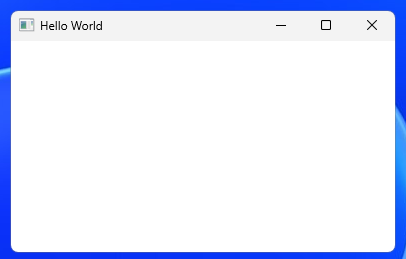
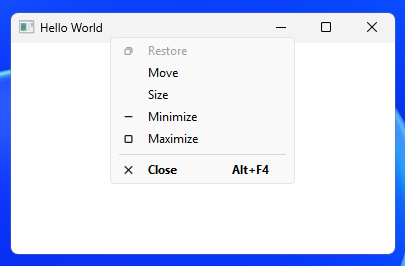
window

diff --git a/window.md b/window.md
@@ -20,7 +20,17 @@ There are 3 general categories of windows in terms of [ownership](#ownership): t
 
 Event handling is done via a [message loop](#message-loop) and the [window procedure](#window-procedure) callback.
 
-![Window parts](./window.png "Window parts")
+The main parts of a window are: 
+- titlebar with icon, caption, window buttons and system menu
+- frame or border that can be used for resizing
+- client area for rendering the window's content
+
+Titlebar and frame are called non-client area.
+
+<figure>
+  <img src="./window_parts.png" alt="Anatomy of a window">
+  <figcaption>Anatomy of a window</figcaption>
+</figure>
 
 ## RegisterClass
 
@@ -46,9 +56,9 @@ To do that, we call a `RegisterClass` function and pass it a pointer to a `WNDCL
 
 `WNDCLASS` members:
 
-- [style](#styles) - bitmask for setting additional window behavior(s).
-- [lpfnWndProc](#window-procedure) - pointer to the window event handler callback.
-- hInstance - handle to the executable module, usually the hInstance argument you get in WinMain (wWinMain)
+- [style](#class-styles) - bitmask for setting additional window behavior(s). **Required**.
+- [lpfnWndProc](#window-procedure) - pointer to the window event handler callback. **Required**.
+- hInstance - handle to the executable module, usually the hInstance argument you get in WinMain (wWinMain). **Required**.
 - [hIcon](#icons) - handle to an icon resource used as the window icon.
 - [hCursor](#cursors) - handle to a cursor resource use as the window cursor icon.
 - hbrBackground - handle to a brush used to paint the window client area background using GDI.
@@ -59,7 +69,7 @@ To do that, we call a `RegisterClass` function and pass it a pointer to a `WNDCL
 
 `WNDCLASSEX` only members:
 
-- cbSize - the size of the structure in bytes. Usually `sizeof(WNDCLASSEX)`.
+- cbSize - the size of the structure in bytes. Usually `sizeof(WNDCLASSEX)`. **Required**.
 - [hIconSm](#icons) - a handle to an icon resource used as the small window icon.
 
 Example:
@@ -90,19 +100,41 @@ int WINAPI wWinMain(HINSTANCE hInstance, HINSTANCE hPrevInstance, PWSTR pCmdLine
 
 // TODO
 
-## Standard controls
-
-// TODO
-
-## Common controls
-
-// TODO
-
 ## Ownership
 
 // TODO
 
-## Styles
+## Class styles
+
+`CS_DBLCLKS` - Enables the windows to receive double click messages (e.g `WM_LBUTTONDBLCLK`).
+
+`CS_NOCLOSE` - Disables the close button on the window.
+
+`CS_DROPSHADOW` - Adds a drop-shadow effect on top-level windows (e.g. menus). Cannot be used with child windows.
+
+`CS_HREDRAW` - Invalidates client area when width changes. Used with GDI.
+
+`CS_VREDRAW` - Invalidates client area when height changes. Used with GDI.
+
+`CS_CLASSDC` - All class windows share the same DC. Mainly used with GDI.
+
+`CS_OWNDC` - Each class window gets its own DC. Mainly used with GDI and OpenGL.
+
+`CS_PARENTDC` - Child windows use the parent's DC as an optimization. Mainly used with GDI.
+
+`CS_GLOBALCLASS` - Makes the class globally available to all other modules in the process. Rarely used today.
+
+`CS_SAVEBITS` - Saves a bitmap of the part of screen obscured by this window so when this window is removed,
+the pixels that were underneath are restored from the bitmap instead doing a full repaint.
+Legacy feature, made obsolete by DWM.
+
+`CS_BYTEALIGNWINDOW` - Forces the window rectangle to start on a byte boundary in memory. Legacy feature.
+
+`CS_BYTEALIGNCLIENT` - Forces the client area rectangle to start on a byte boundary in memory. Legacy feature.
+
+## Window styles
+
+### Visual styles
 
 There are three base window styles that you can use as a starting point:
 
@@ -110,72 +142,40 @@ There are three base window styles that you can use as a starting point:
 - `WS_POPUP` - special top level windows like dialogs, menus, splash screens...etc.
 - `WS_CHILD` - child windows that are visually constrained / clipped in a parent window.
 
-### WS_OVERLAPPED
+`WS_OVERLAPPED` produces a basic window with a frame and a minimal titlebar. No resizable border or window buttons.
 
-`WS_OVERLAPPED` flag gives you the small titlebar with the caption and
-the client area painted white by default. There are no resizable borders.
-
-![Window with WS_OVERLAPPEDWINDOW](./ws_overlapped.png)
-
-`WS_OVERLAPPED | WS_THICKFRAME` gives overlapped style + a resizable border and a taller titlebar.
-
-![Window with WS_OVERLAPPED and WS_THICKFRAME](./ws_overlapped_thickframe.png)
-
-`WS_OVERLAPPED | WS_SYSMENU` gives overlapped style + icon and the close button. No resizable border.
-Right clicking on the titlebar opens the system menu. Minimize and maximize are available as options in the system menu, but are disabled and there are now titlebar buttons for them. You can add them with `WS_MINIMIZEBOX` and `WS_MAXIMIZEBOX` flags.
-
-![Window with WS_OVERLAPPED and WS_SYSMENU](./ws_overlapped_sysmenu.png)
-
-`WS_MINIMIZEBOX` and `WS_MAXIMIZEBOX` require the `WS_SYSMENU` flag.
-
-`WS_OVERLAPPED | WS_SYSMENU | WS_MINIMIZEBOX` gives overlapped style + system menu with the minimize option now available
-and the minimize button. Maximize button is shown, but disabled.
-
-![Window with WS_OVERLAPPED, WS_SYSMENU, and WS_MINIMIZEBOX](./ws_overlapped_sysmenu_minimizebox.png)
-
-`WS_OVERLAPPEDWINDOW` is a flag that encompasses everything from before (titlebar, resizable borders, system menu...etc).
-
-It is defined as `WS_OVERLAPPED | WS_CAPTION | WS_SYSMENU | WS_THICKFRAME | WS_MINIMIZEBOX | WS_MAXIMIZEBOX`
-
-![Window with WS_OVERLAPPEDWINDOW](./ws_overlappedwindow.png)
-
-`WS_HSCROLL` and `WS_VSCROLL` can be used to add scrollbars.
-
-`WS_OVERLAPPED | WS_HSCROLL | WS_VSCROLL`
-
-![Window with WS_OVERLAPPED and WS_HSCROLL and WS_VSCROLL](./ws_overlapped_hscroll_vscroll.png)
-
-### WS_POPUP
-
-`WS_POPUP` gives the frameless style - no title bar, no border whatsoever (no rounding).
-
-Could be used if you want control over the entire surface of the window.
-
-The client area will not be painted by default, but the easiest way to do it is to set `hbrBackground` on `WNDCLASS`:
+`WS_POPUP` produces a frameless window with just the client area and no borders at all (no rounding).
+Client area needs to be painted for the window to be visible. Easiest way to do it:
 
 ```cpp
 wc.hbrBackground = (HBRUSH)(COLOR_WINDOW + 1); // default, white background
 ```
 
-You could also handle the `WM_ERASEBKGND` or `WM_PAINT` message to paint the background yourself and/or have your own render loop.
+`WS_THICKFRAME` adds a resizable border and makes the titlebar taller. Its alias is `WS_SIZEBOX`.
 
-![Window with WS_POPUP](./ws_popup.png)
+`WS_SYSMENU` adds the window icon, system menu and window buttons. `WS_MINMIZEBOX` and `WS_MAXIMIZEBOX` are used
+alongside it to add the minimize and maximize buttons.
 
-You can add other styles to `WS_POPUP` like the styles we used with `WS_OVERLAPPED`.
+`WS_OVERLAPPEDWINDOW` is the full, standard overlapped window.
+Defined as `WS_OVERLAPPED | WS_CAPTION | WS_SYSMENU | WS_THICKFRAME | WS_MINIMIZEBOX | WS_MAXIMIZEBOX`.
 
-`WS_POPUP | WS_THICKFRAME` gives a frameless window with rounded corners and a resizable border.
+`WS_HSCROLL` and `WS_VSCROLL` are used to add horizontal and vertical scrollbars.
 
-![Window with WS_POPUP and WS_THICKFRAME](./ws_popup_thickframe.png)
+`WS_BORDER` The window has a thin line border.
 
-`WS_POPUP | WS_CAPTION | WS_THICKFRAME | WS_SYSMENU | WS_MINIMIZEBOX | WS_MAXIMIZEBOX` gives visually the same window as with `WS_OVERLAPPEDWINDOW`.
+`WS_DLGFRAME` The window has a dialog-box like border. A window with this style cannot have a title bar.
 
-![Window with WS_POPUP and WS_CAPTION and WS_THICKFRAME and WS_SYSMENU and WS_MINIMZEBOX and WS_MAXIMIZEBOX](./ws_popup_caption_thickframe_sysmenu_min_max.png)
+<div style="display:flex;">
+<figure>
+  <img src="./ws_overlappedwindow.png" alt="Window with WS_OVERLAPPEDWINDOW style">
+  <figcaption>WS_OVERLAPPEDWINDOW with the system menu open</figcaption>
+</figure>
 
-Scrollbar flags work with `WS_POPUP` as well.
-
-`WS_POPUP | WS_VSCROLL`:
-
-![Window with WS_VSCROLL](./ws_popup_vscroll.png)
+<figure>
+  <img src="./ws_popup.png" alt="Window with WS_POPUP style">
+  <figcaption>WS_POPUP only window</figcaption>
+</figure>
+</div>
 
 ### Behavior styles
 
@@ -185,17 +185,20 @@ You can call `ShowWindow` or `SetWindowPos` to show/hide the window.
 `WS_DISABLED` The window is disabled initially. Visually, the frame looks the same, but all input to the window is blocked.
 You can change this by calling `EnableWindow`.
 
-`WS_MINIMIZE` The window is minimized initially. `WS_ICONIC` is an alias for `WS_MINIMIZE`.
+`WS_MINIMIZE` The window is minimized initially. Its alias is `WS_ICONIC`.
 
 `WS_MAXIMIZE` The window is maximized initially.
 
+`WS_CLIPCHILDREN` Child windows are excluded from the window's painting operations. Prevents parent from
+overwriting child windows and flicker. Mainly used with GDI.
+
+`WS_CLIPSIBLINGS` Applied to a child window so that it doesn't overwrite the area of the sibling windows it overlaps with,
+but only paint its own visible area. Mainly used with GDI.
+
 `WS_GROUP` Used for grouping of child windows for keyboard navigation, focus and radio button grouping.
+First created child window with `WS_GROUP` style marks the beginning of a group.
 
-### Other styles
-
-`WS_BORDER` The window has a thin line border.
-
-`WS_DLGFRAME` The window has a dialog-box like border. A window with this style cannot have a title bar.
+`WS_TABSTOP` Makes a child window focusable via pressing Tab. Used with GDI.
 
 ## Message loop
 
@@ -214,5 +217,13 @@ You can change this by calling `EnableWindow`.
 // TODO
 
 ## Custom data
+
+// TODO
+
+## Standard controls
+
+// TODO
+
+## Common controls
 
 // TODO

diff --git a/abbreviations.md b/abbreviations.md
@@ -52,6 +52,10 @@ Examples: `CDM_GETFILEPATH`, `CDM_GETFOLDERIDLIST`, `CDM_GETFOLDERPATH`.
 
 Examples: `HCONV`, `HCONVLIST` (conversation list).
 
+`CS` Class style
+
+Examples: `CS_DBLCLKS`, `CS_PARENTDC`, `CS_VREDRAW`.
+
 `CW` Create window
 
 Examples: `CW_USEDEFAULT`.
@@ -59,6 +63,10 @@ Examples: `CW_USEDEFAULT`.
 `D` Double something type
 
 Examples `DWORD` (double of `WORD`), `DWORDLONG`, `DWORD_PTR`.
+
+`DBLCLK` Double click
+
+Examples: `WM_LBUTTONDBLCLK`, `WM_RBUTTONDBLCLK`, `WM_XBUTTONDBLCLK`.
 
 `DC` Device context
 
@@ -76,6 +84,10 @@ Examples: `HDESK`.
 
 Examples: `DL_BEGINDRAG`, `DL_CANCELDRAG`, `DL_DRAGGING`.
 
+`DLG` Dialog
+
+Examples: `DLGITEMTEMPLATE`, `GetNextDlgGroupItem`, `DLGPROC`.
+
 `DM` Dialog box message
 
 Examples: `DM_GETDEFID`, `DM_REPOSITION`, `DM_SETDEFID`.
@@ -87,6 +99,10 @@ Examples: `DTM_CLOSEMONTHCAL`, `DTM_GETDATETIMEPICKERINFO`, `DTM_GETIDEALSIZE`.
 `DTN` Date and time picker notification
 
 Examples: `DTN_CLOSEUP`, `DTN_DATETIMECHANGE`, `DTN_DROPDOWN`.
+
+`DWP` Desktop window manager
+
+Examples: `WM_DWMCOLORIZATIONCOLORCHANGED`, `DwmGetWindowAttribute`.
 
 `DWP` Deferred window position
 
@@ -112,9 +128,9 @@ Examples: `WS_EX_ACCEPTFILES`, `CreateWindowEx`, `TITLEBARINFOEX`.
 
 Examples: `HGDIOBJ`.
 
-`H` opaque handle
+`H` (opaque) Handle
 
-Examples: `HWND` (window), `HINSTANCE` (instance/module), `HICON` (icon), `HDC` (device context), `HDWP` (deferred window position).
+Examples: `HWND`, `HINSTANCE`, `HICON`, `HDC`, `HDWP`.
 
 `hbr` Handle to a brush resource
 
@@ -159,6 +175,10 @@ Examples: `HKL`.
 `L` Long something type
 
 Examples `LPARAM` (long parameter).
+
+`L` Left
+
+Examples `WM_LBUTTONDBLCLK`.
 
 `LB` List box message
 
@@ -263,6 +283,10 @@ Examples: `SBN_SIMPLEMODECHANGE`.
 `SBM` Scroll bar message
 
 Examples: `SBM_ENABLE_ARROWS`, `SBM_GETPOS`, `SBM_GETRANGE`.
+
+`SPI` System parameters info
+
+Examples: `SPI_GETSTICKYKEYS`, `SPI_GETDESKWALLPAPER`, `SPI_GETBEEP`.
 
 `STM` Static control message
 